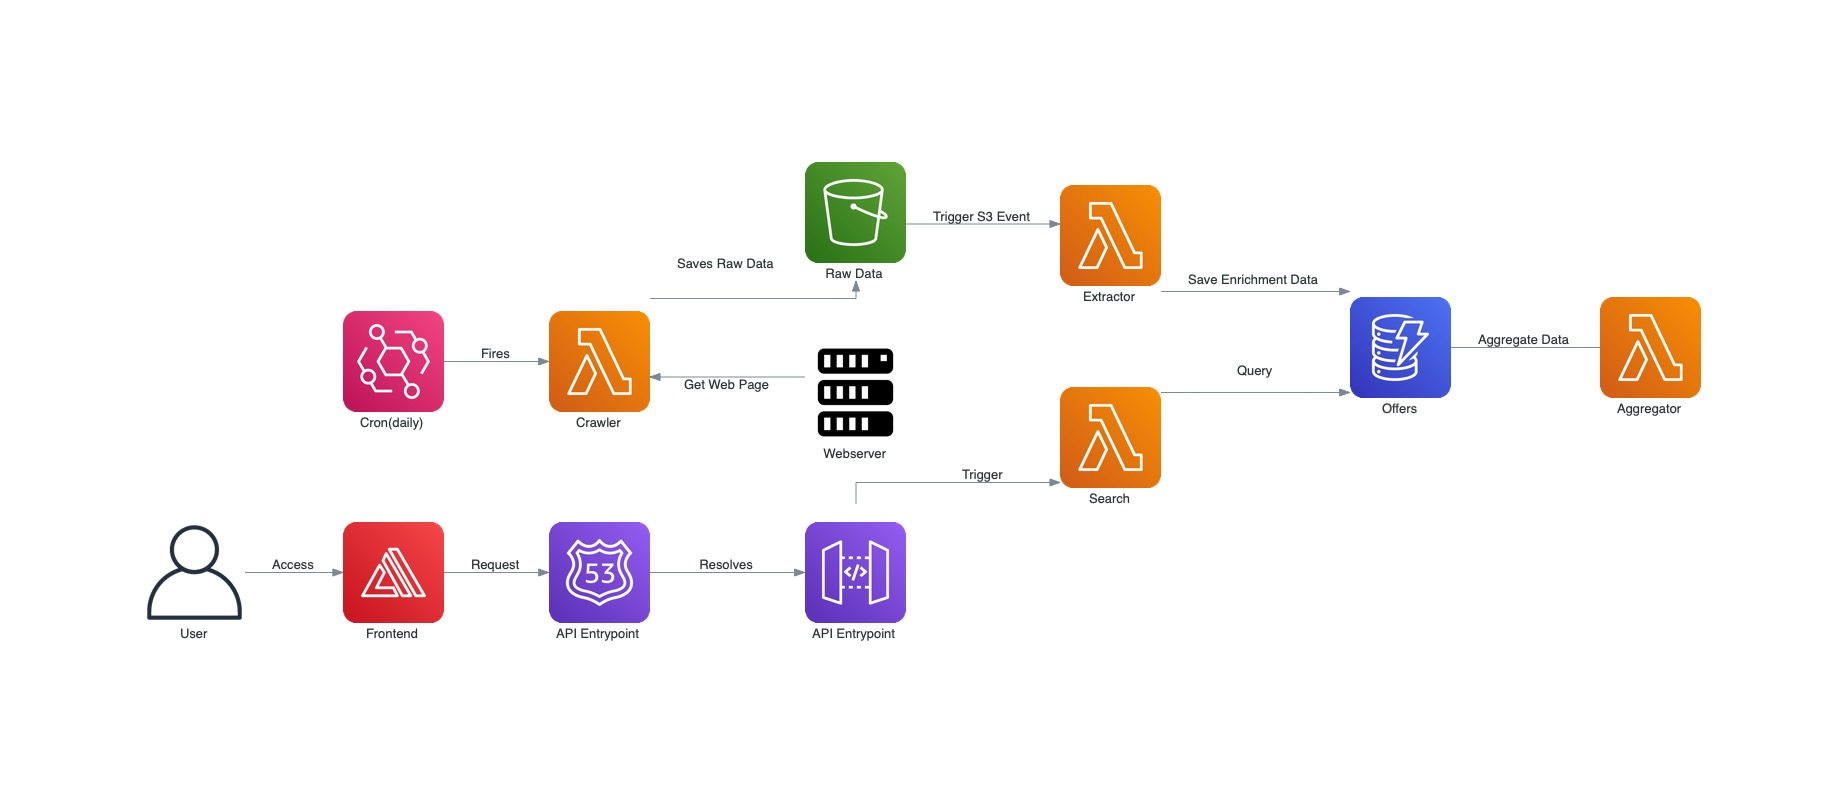
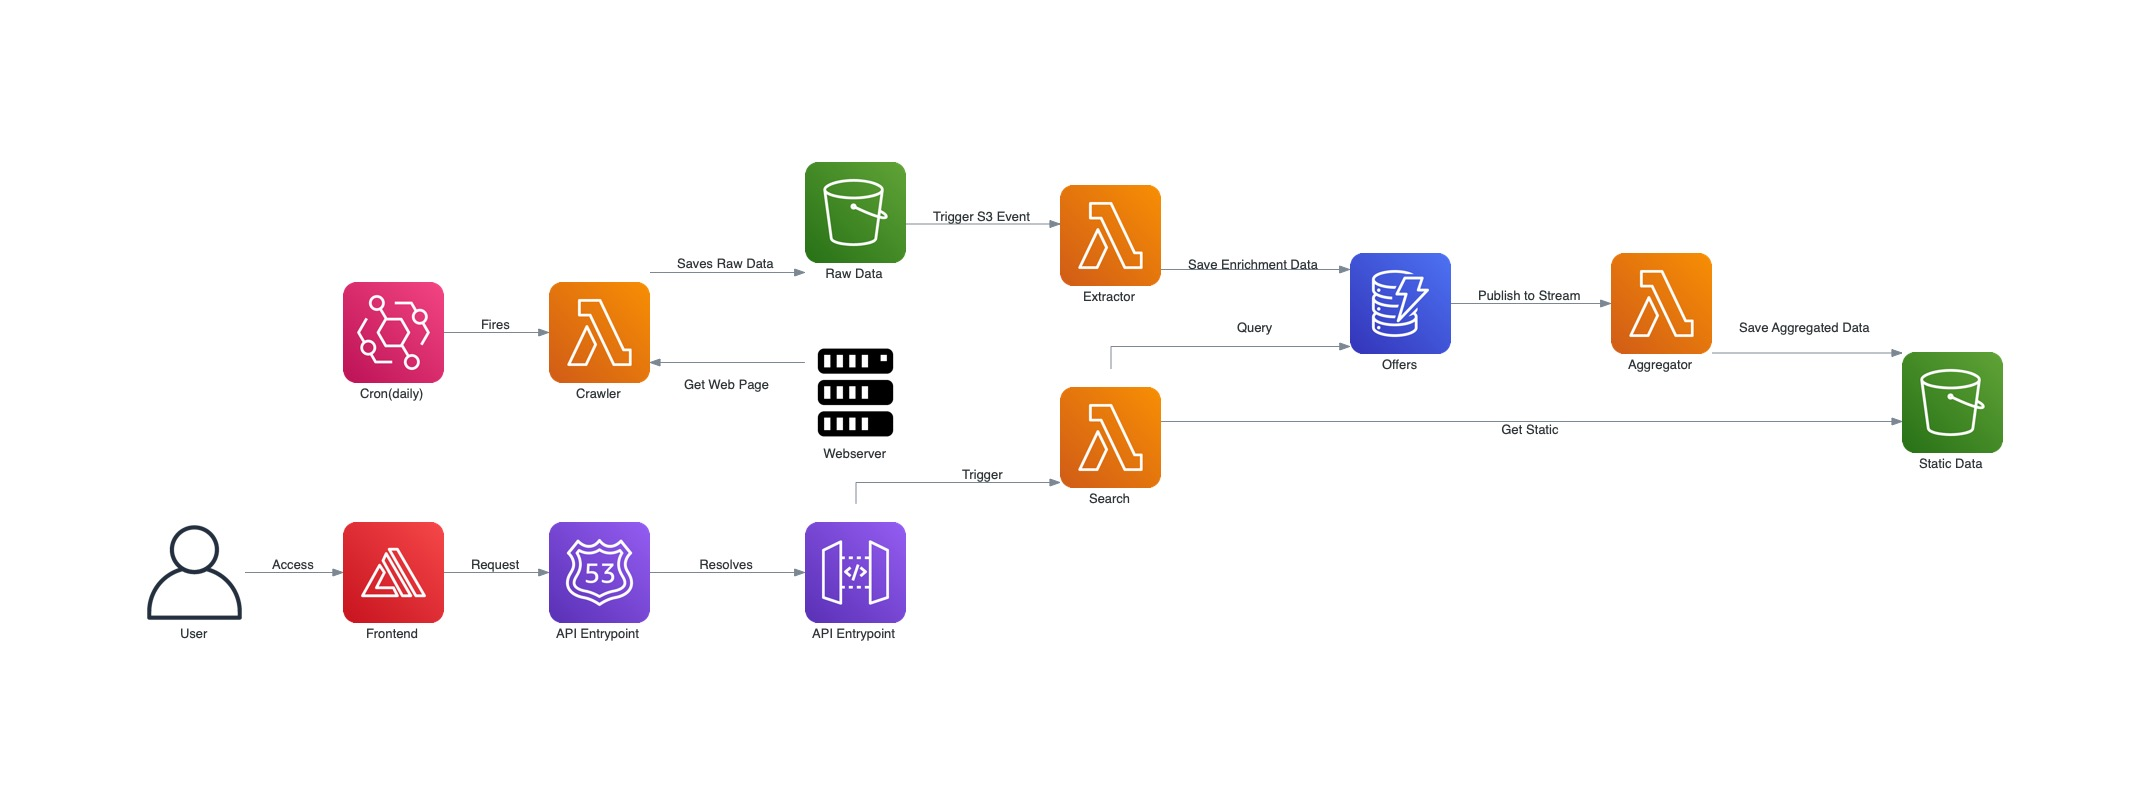
Add Static Data bucket

Changed region(s): [[0.1545, 0.1834, 0.9577, 0.642], [0.0618, 0.642, 0.4943, 0.8255]]

diff --git a/rent-price-webcrawler.py b/rent-price-webcrawler.py
@@ -12,12 +12,13 @@ from diagrams.onprem.client import User
 from diagrams.onprem.compute import Server
 
 graph_attr = {
-        "viewport": "800,600"
+        "viewport": "1024,768"
 }
 
 with Diagram(filename="rent-price-webcrawler", outformat="jpg", direction="LR", show=False):
     cron = Eventbridge("Cron(daily)")
-    bucket = S3("Raw Data")
+    bucket_raw = S3("Raw Data")
+    bucket_static = S3("Static Data")
 
     lambda_crawler = Lambda("Crawler")
     lambda_extractor = Lambda("Extractor")
@@ -35,11 +36,13 @@ with Diagram(filename="rent-price-webcrawler", outformat="jpg", direction="LR", 
 
     with Cluster("Collection and Enrichment"):
         cron >> Edge(label="Fires") >> lambda_crawler << Edge(label="Get Web Page") << webserver
-        lambda_crawler >> Edge(label="Saves Raw Data") >> bucket
-        bucket >> Edge(label="Trigger S3 Event") >> lambda_extractor >> Edge(label="Save Enrichment Data") >> ddb_table
-        ddb_table - Edge(label="Aggregate Data") - lambda_aggregator
+        lambda_crawler >> Edge(label="Saves Raw Data") >> bucket_raw
+        bucket_raw >> Edge(label="Trigger S3 Event") >> lambda_extractor >> Edge(label="Save Enrichment Data") >> ddb_table
+        ddb_table >> Edge(label="Publish to Stream") >> lambda_aggregator
+        lambda_aggregator >> Edge(label="Save Aggregated Data") >> bucket_static
 
     with Cluster("User interaction"):
         user >> Edge(label="Access") >> frontend
         frontend >> Edge(label="Request") >> api_dns_entrypoint >> Edge(label="Resolves") >> api_gateway_entrypoint
         api_gateway_entrypoint >> Edge(label="Trigger") >> lambda_search >> Edge(label="Query") >> ddb_table
+        lambda_search >> Edge(label="Get Static") >> bucket_static
